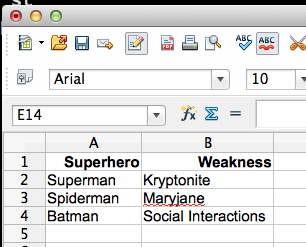
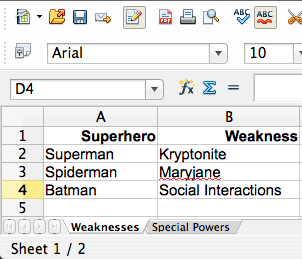
updating readme

diff --git a/README.md b/README.md
@@ -4,7 +4,7 @@ Python library for writing CSV and XLS files from list of
 [OrderedDict](http://docs.python.org/2/library/collections.html#collections.OrderedDict)
 or just a list of lists containing 2-item tuples.
 
-# Installing 
+# Installing
 
 ```shell
 pip install excellent
@@ -17,13 +17,24 @@ from collections import OrderedDict
 from excellent import Writer, XL
 
 output = open("superhero-database.xls", "wb")
-excel = Writer(XL(), output)
+sheet_manager = XL()
 
+excel = Writer(sheet_manager, output)
+
+sheet_manager.use_sheet("Weaknesses")
 excel.write([
     OrderedDict([('Superhero', 'Superman'), ('Weakness', 'Kryptonite')]),
     OrderedDict([('Superhero', 'Spiderman'), ('Weakness', 'Maryjane')]),
 ])
 
+sheet_manager.use_sheet("Special Powers")
+excel.write([
+    OrderedDict([('Superhero', 'Superman'), ('Super Powers', 'X-Ray vision')]),
+    OrderedDict([('Superhero', 'Spiderman'), ('Super Powers', 'Release web')]),
+    OrderedDict([('Superhero', 'Batman'), ('Super Powers', 'Money')]),
+])
+
+sheet_manager.use_sheet("Weaknesses")
 excel.write([
     OrderedDict([('Superhero', 'Batman'), ('Weakness', 'Social Interactions')]),
 ])
@@ -33,7 +44,7 @@ excel.write([
 excel.save()
 
 # now open superhero-database.xls and be happy
-``` 
+```
 
 ![https://raw.github.com/Yipit/excellent/master/docs/superhero-database.png?login=suneel0101&token=79faadd827d16c56064ea3845850f7b8](https://raw.github.com/Yipit/excellent/master/docs/superhero-database.png?login=suneel0101&token=79faadd827d16c56064ea3845850f7b8)
 
